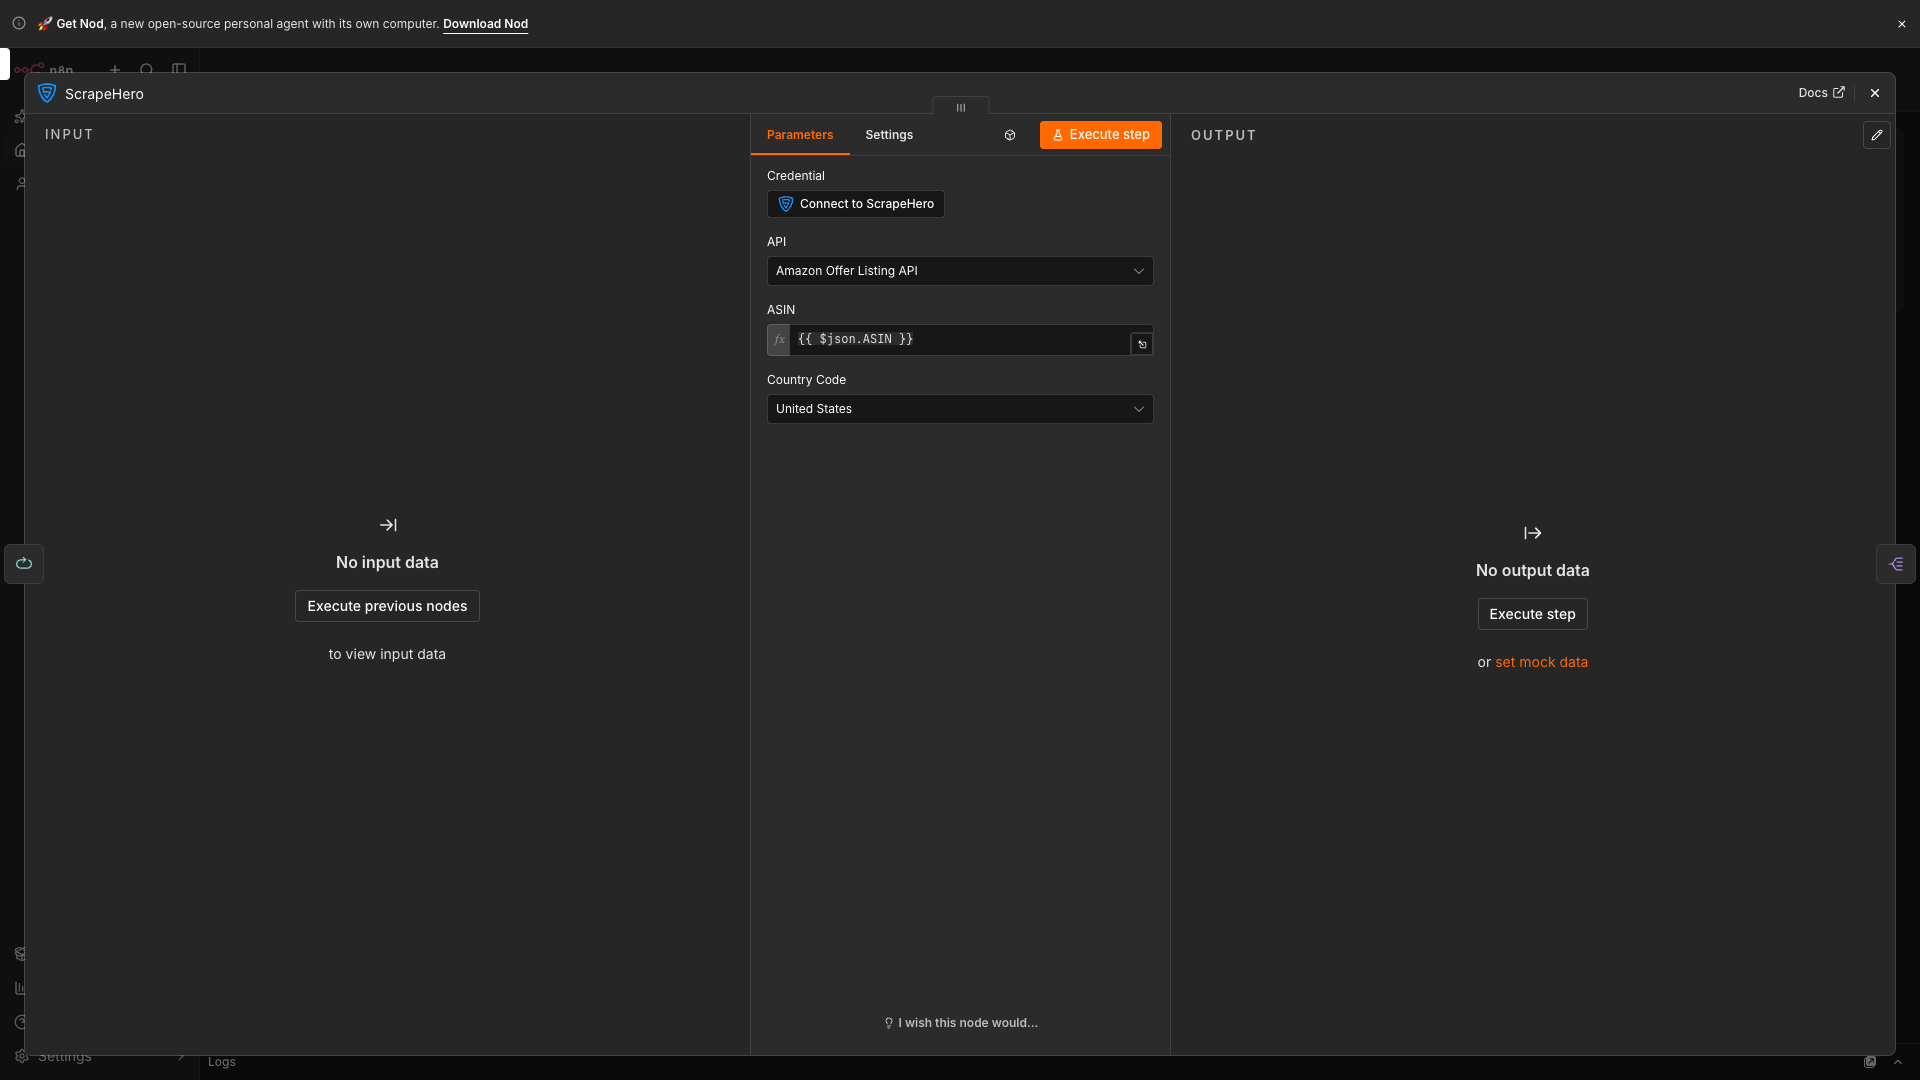
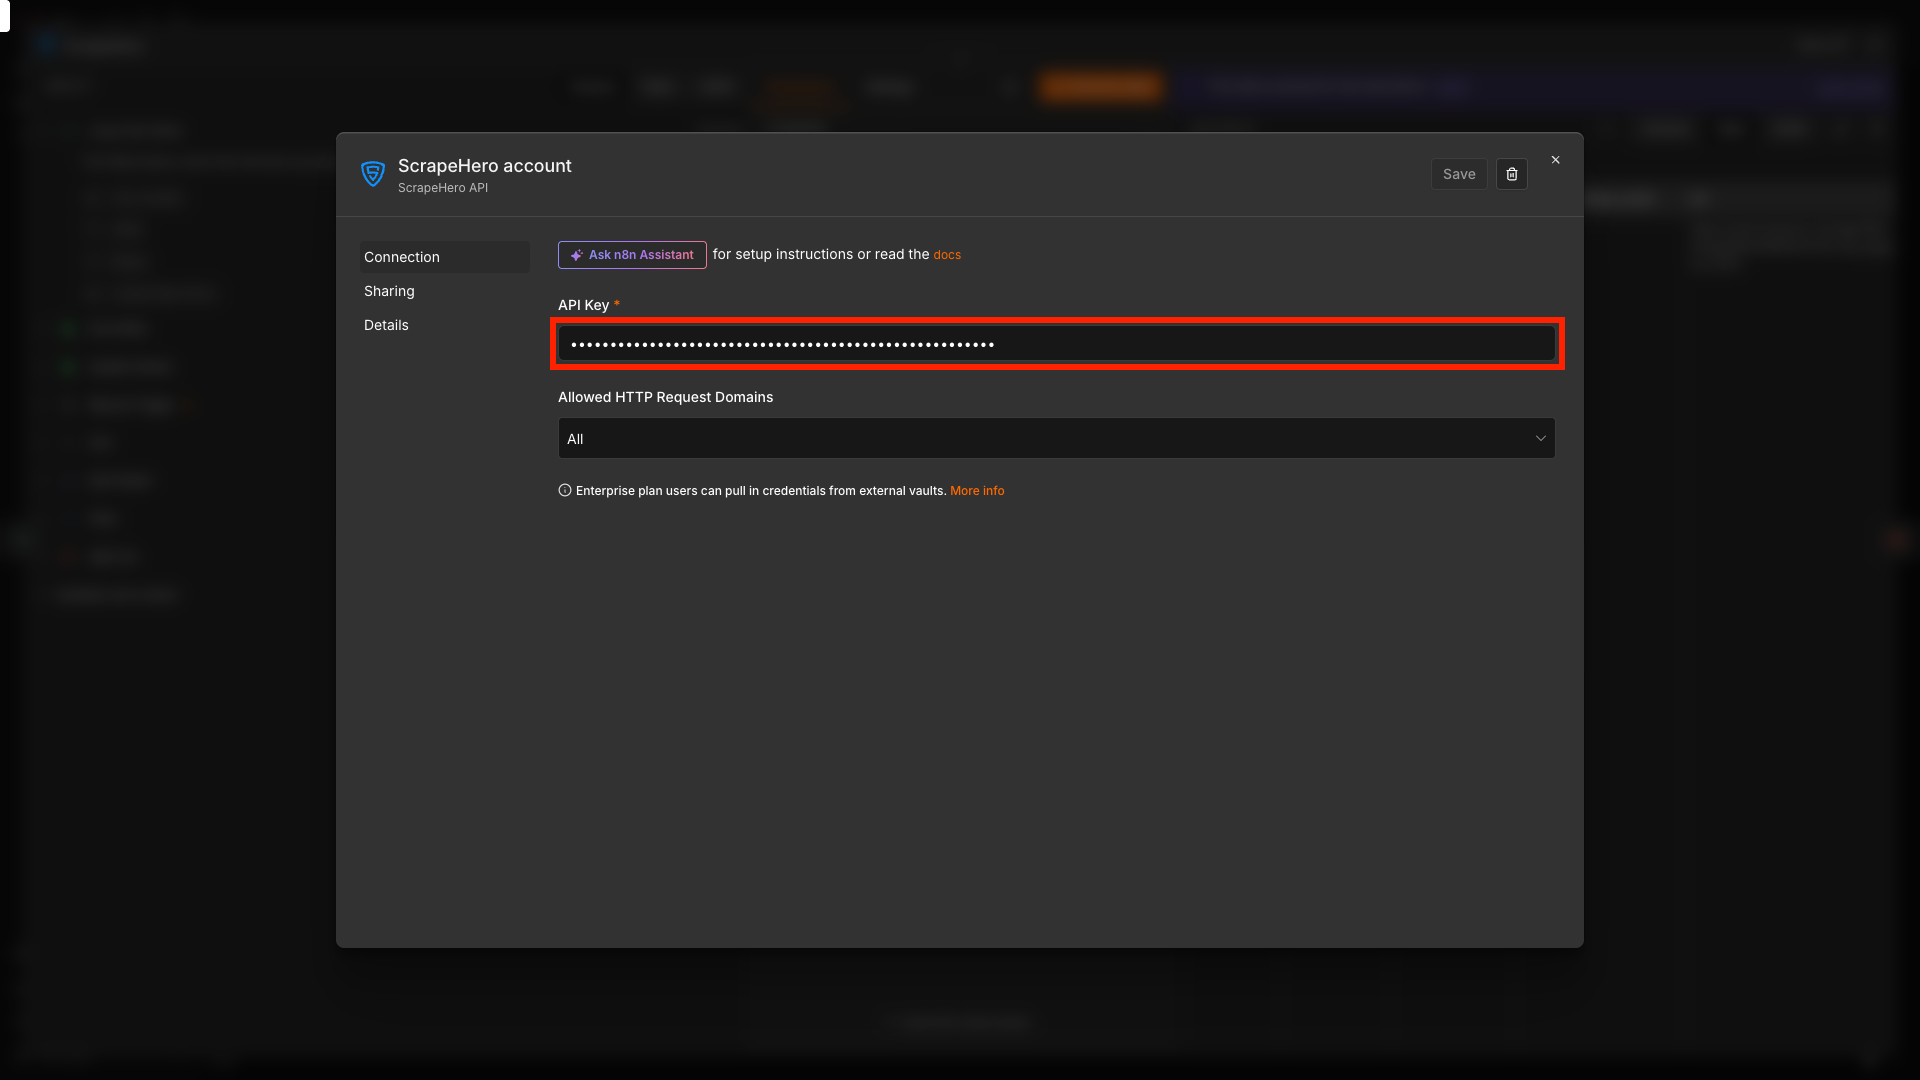
fix: calibrate side panel card targeting and refresh modal screenshots

diff --git a/utils/browser_capture.py b/utils/browser_capture.py
@@ -81,7 +81,10 @@ def capture_side_panel_search(page, query: str, out_path: str):
         page.screenshot(path=out_path)
         
         # Dynamically locate the search item row to align arrow with 10px margin
-        item_row = page.locator(f'[class*="item"]:has-text("{query}"), [class*="node-creator-item"]:has-text("{query}")').first
+        item_row = page.locator(f'[class*="_itemsRenderer_"] > div:has-text("{query}"), [class*="_items_"] > div:has-text("{query}"), [class*="node-creator-item"]:has-text("{query}")').first
+        if item_row.count() == 0 or not item_row.is_visible():
+            # Fallback to general item
+            item_row = page.locator(f'[class*="item"]:has-text("{query}")').first
         if item_row.count() == 0 or not item_row.is_visible():
             # Fallback to first item in side panel list
             item_row = page.locator('[class*="item-list"] > div, [class*="list-item"]').first
